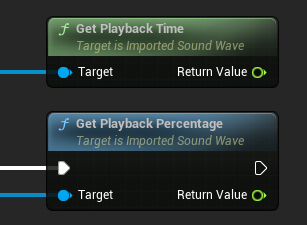
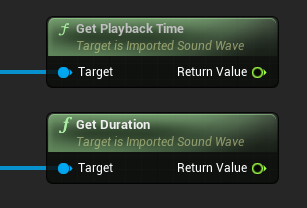
Improving images for documentation and changing some methods to const

Changed region(s): [[0.0, 0.4904, 0.9088, 0.9519], [0.0, 0.0577, 0.9088, 0.4327]]

diff --git a/Source/RuntimeAudioImporter/Private/ImportedSoundWave.cpp b/Source/RuntimeAudioImporter/Private/ImportedSoundWave.cpp
@@ -50,20 +50,24 @@ float UImportedSoundWave::GetPlaybackTime() const
 	return static_cast<float>(CurrentNumOfFrames) / SampleRate;
 }
 
-float UImportedSoundWave::GetDuration()
+float UImportedSoundWave::GetDurationConst() const
 {
 	return static_cast<float>(PCMBufferInfo.PCMNumOfFrames) / SampleRate;
 }
 
-float UImportedSoundWave::GetPlaybackPercentage()
+float UImportedSoundWave::GetDuration()
 {
-	return (GetPlaybackTime() / GetDuration()) * 100;
+	return GetDurationConst();
+}
+
+float UImportedSoundWave::GetPlaybackPercentage() const
+{
+	return (GetPlaybackTime() / GetDurationConst()) * 100;
 }
 
 bool UImportedSoundWave::IsPlaybackFinished()
 {
-	return GetPlaybackPercentage() == 100 && PCMBufferInfo.PCMData && PCMBufferInfo.PCMNumOfFrames > 0 && PCMBufferInfo.
-		PCMDataSize > 0;
+	return GetPlaybackPercentage() == 100 && PCMBufferInfo.PCMData && PCMBufferInfo.PCMNumOfFrames > 0 && PCMBufferInfo.PCMDataSize > 0;
 }
 
 int32 UImportedSoundWave::OnGeneratePCMAudio(TArray<uint8>& OutAudio, int32 NumSamples)
@@ -104,7 +108,7 @@ int32 UImportedSoundWave::OnGeneratePCMAudio(TArray<uint8>& OutAudio, int32 NumS
 	{
 		return 0;
 	}
-	//OutAudio.Reset();
+	
 	// Filling OutAudio array with the retrieved PCM data
 	OutAudio = TArray<uint8>(RetrievedPCMData, RetrievedPCMDataSize);
 

diff --git a/Source/RuntimeAudioImporter/Public/ImportedSoundWave.h b/Source/RuntimeAudioImporter/Public/ImportedSoundWave.h
@@ -7,7 +7,7 @@
 #include "Sound/SoundWaveProcedural.h"
 #include "ImportedSoundWave.generated.h"
 
-/**  */
+/** Delegate broadcast to track the end of audio playback */
 DECLARE_DYNAMIC_MULTICAST_DELEGATE(FOnAudioPlaybackFinished);
 
 
@@ -67,6 +67,12 @@ public:
 	float GetPlaybackTime() const;
 
 	/**
+	 * Constant alternative for getting the length of the sound wave, in seconds
+	 */
+	UFUNCTION(BlueprintCallable, Category = "Imported Sound Wave", meta = (DisplayName = "Get Duration"))
+	float GetDurationConst() const;
+	
+	/**
 	 * Get the length of the sound wave, in seconds
 	 */
 	UFUNCTION(BlueprintCallable, Category = "Imported Sound Wave")
@@ -76,7 +82,7 @@ public:
 	 * Get the current sound playback percentage, 0-100%
 	 */
 	UFUNCTION(BlueprintCallable, Category = "Imported Sound Wave")
-	float GetPlaybackPercentage();
+	float GetPlaybackPercentage() const;
 
 	/**
 	 * Sampling Rate (samples per second)
